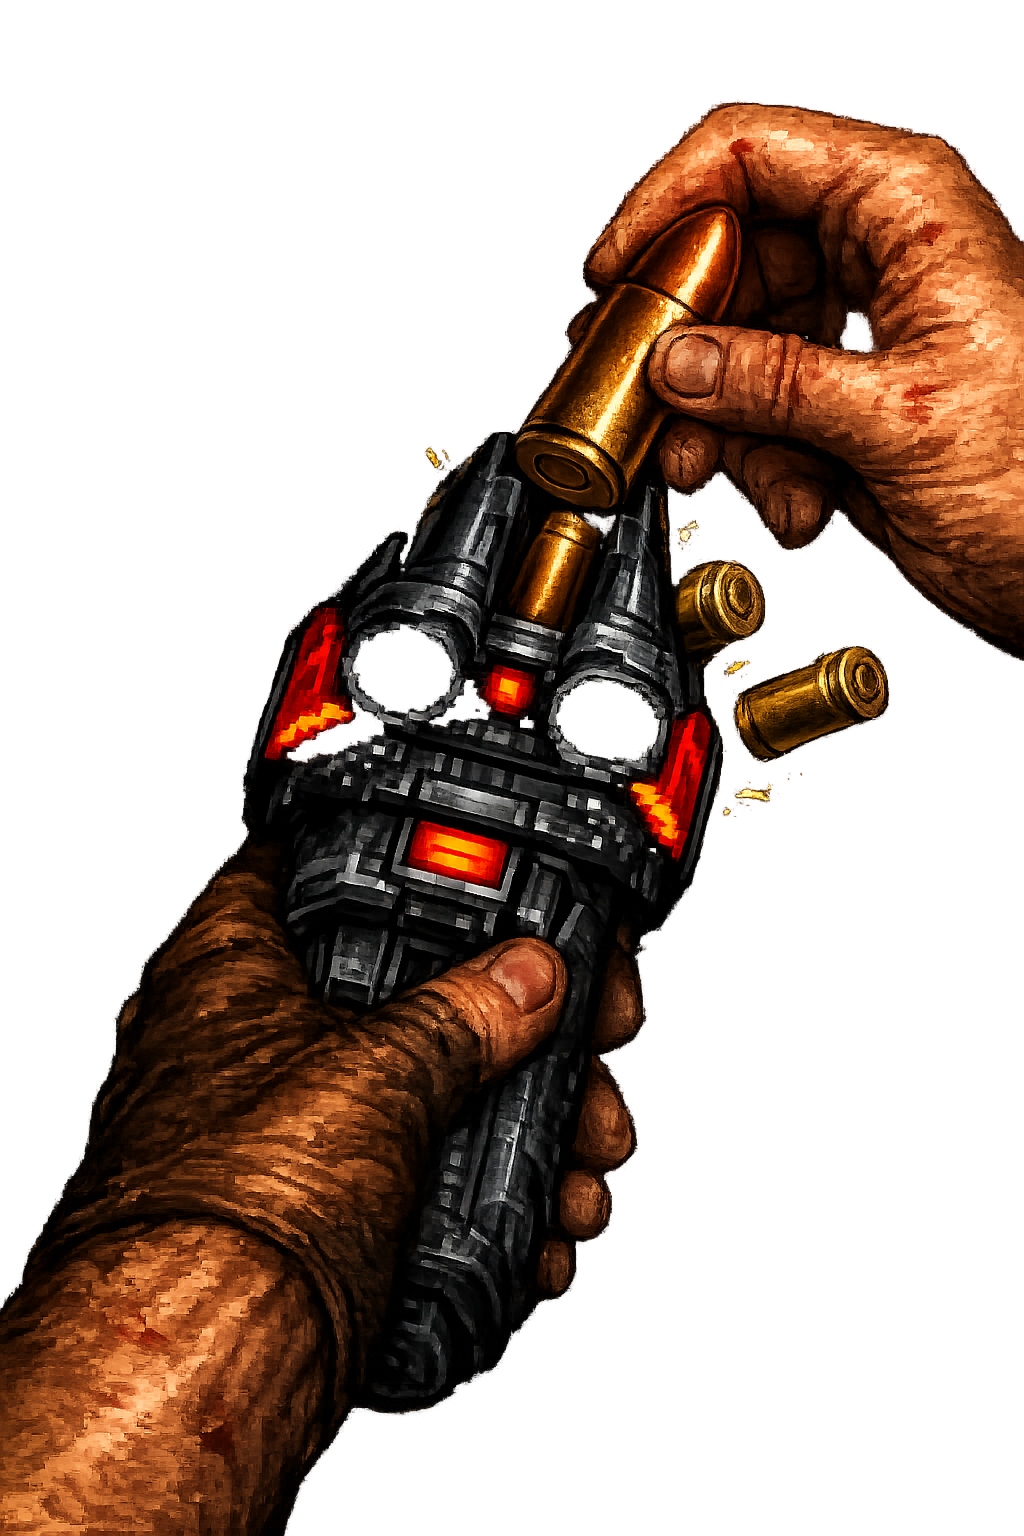
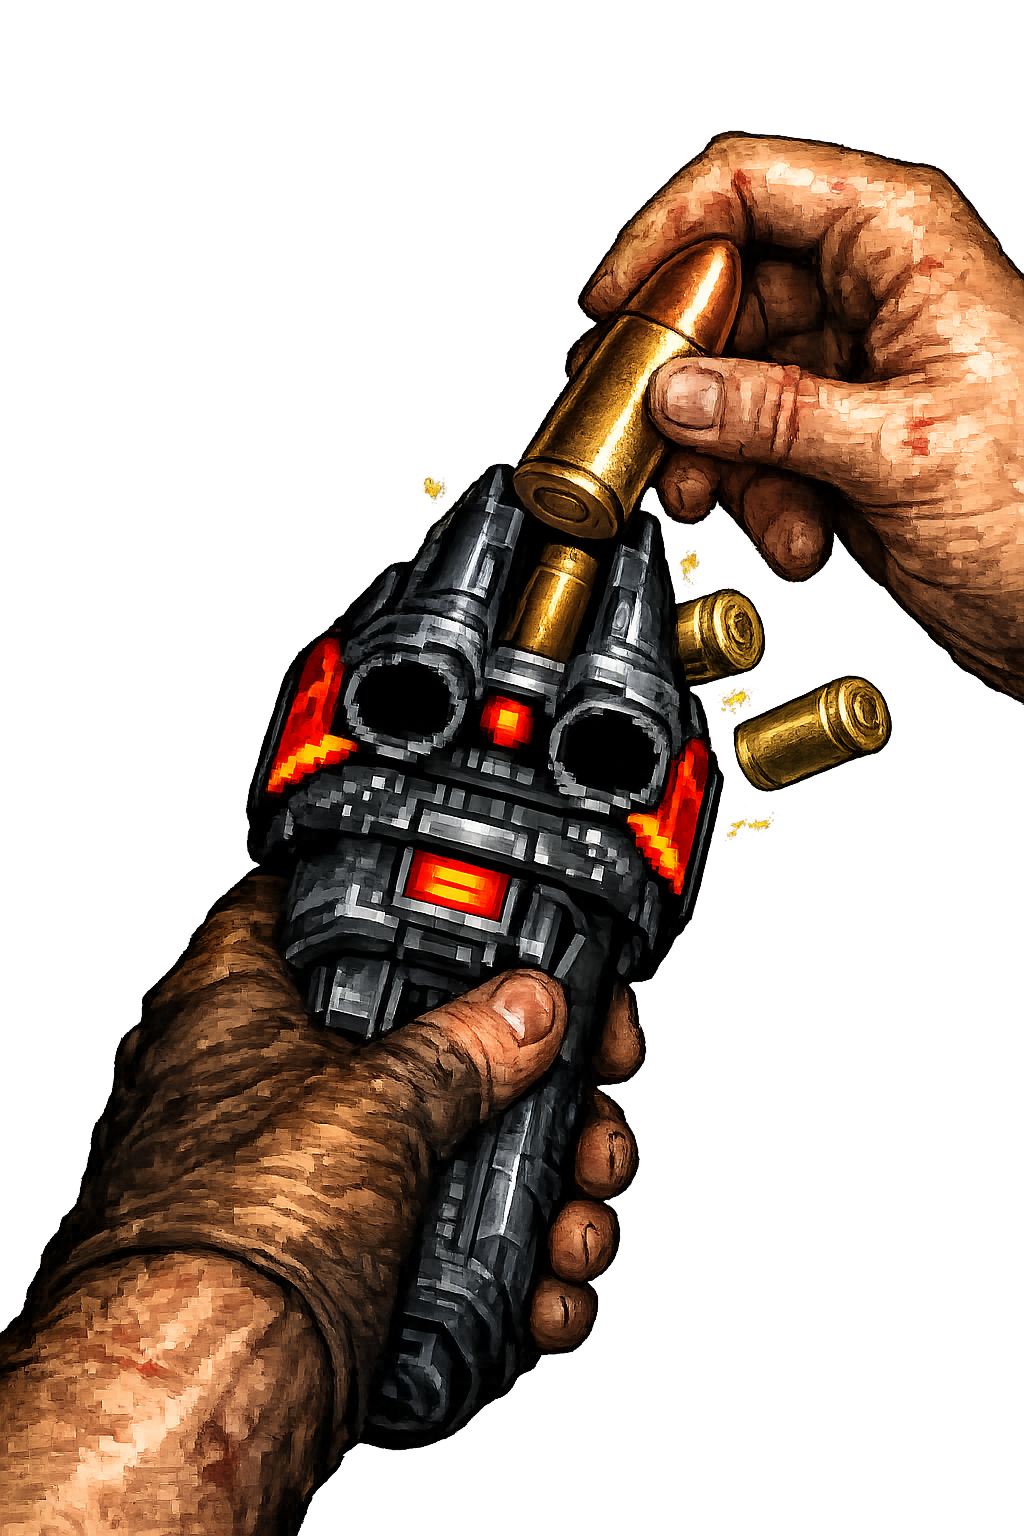
Ajustar HUD de balas y agregar score persistente en JSON

diff --git a/src/org/drgnst/game/gfx/Screen.java b/src/org/drgnst/game/gfx/Screen.java
@@ -46,15 +46,17 @@ public class Screen extends Bitmap
         // Kills + Deaths (compact, top-right)
         int hudScale = 1;
         int spacing = 2;
-        String ks = Integer.toString(Math.max(0, game.getKills()));
-        int kWidth = ks.length() * (3 * hudScale + 1);
         drawNumberRight(width - 6, 6, game.getKills(), 0xffffff, hudScale);
         drawNumberRight(width - 6, 14, game.getDeaths(), 0xff8888, hudScale);
 
-        // Barra de vida más discreta (bottom-left)
-        drawHealthBar(6, height - 12, 60, 6, game.getPlayerHealthPercent());
+        // Score y max score (top-left)
+        drawLabelAndNumber(6, 6, "SCORE", game.getScore(), 0xffd24d, 1);
+        drawLabelAndNumber(6, 14, "MAX", game.getMaxScore(), 0x7de3ff, 1);
 
-        // Munición: 5 balas en la parte inferior
+        // Barra de vida más discreta (lower-left, above bullets)
+        drawHealthBar(6, height - 34, 60, 6, game.getPlayerHealthPercent());
+
+        // Munición: 5 balas pequeñas en la esquina inferior izquierda
         drawAmmoHud(game.getAmmo(), game.getMaxAmmo());
 
         // Jumpscare a pantalla completa cuando muere
@@ -177,6 +179,90 @@ public class Screen extends Bitmap
         }
     }
 
+    private void drawLabelAndNumber(int x, int y, String label, int value, int color, int scale)
+    {
+        drawText(x, y, label, color, scale);
+        int labelWidth = label.length() * (3 * scale + 1);
+        drawNumber(x + labelWidth + 2, y, value, color, scale);
+    }
+
+    private void drawNumber(int x, int y, int value, int color, int scale)
+    {
+        String s = Integer.toString(Math.max(0, value));
+        int spacing = 1;
+        int dx = 0;
+        for (int i = 0; i < s.length(); i++)
+        {
+            char c = s.charAt(i);
+            if (c < '0' || c > '9')
+                continue;
+            int d = c - '0';
+            drawDigit(x + dx, y, d, color, scale);
+            dx += 3 * scale + spacing;
+        }
+    }
+
+    private void drawText(int x, int y, String text, int color, int scale)
+    {
+        int dx = 0;
+        for (int i = 0; i < text.length(); i++)
+        {
+            char c = Character.toUpperCase(text.charAt(i));
+            if (c == ' ')
+            {
+                dx += 2 * scale;
+                continue;
+            }
+
+            int[] pat = getLetterPattern(c);
+            if (pat == null)
+            {
+                dx += 4 * scale;
+                continue;
+            }
+
+            for (int ry = 0; ry < 5; ry++)
+            {
+                int row = pat[ry];
+                for (int rx = 0; rx < 3; rx++)
+                {
+                    boolean on = ((row >> (2 - rx)) & 1) == 1;
+                    if (!on)
+                        continue;
+                    for (int sy = 0; sy < scale; sy++)
+                    {
+                        for (int sx = 0; sx < scale; sx++)
+                        {
+                            int px = x + dx + rx * scale + sx;
+                            int py = y + ry * scale + sy;
+                            if (px < 0 || px >= width || py < 0 || py >= height)
+                                continue;
+                            pixels[px + py * width] = color & 0xffffff;
+                        }
+                    }
+                }
+            }
+
+            dx += 4 * scale;
+        }
+    }
+
+    private int[] getLetterPattern(char c)
+    {
+        switch (c)
+        {
+            case 'S': return new int[] {0b111,0b100,0b111,0b001,0b111};
+            case 'C': return new int[] {0b111,0b100,0b100,0b100,0b111};
+            case 'O': return new int[] {0b111,0b101,0b101,0b101,0b111};
+            case 'R': return new int[] {0b110,0b101,0b110,0b101,0b101};
+            case 'E': return new int[] {0b111,0b100,0b111,0b100,0b111};
+            case 'M': return new int[] {0b101,0b111,0b111,0b101,0b101};
+            case 'A': return new int[] {0b111,0b101,0b111,0b101,0b101};
+            case 'X': return new int[] {0b101,0b101,0b010,0b101,0b101};
+            default: return null;
+        }
+    }
+
     private void drawHealthBar(int x, int y, int w, int h, int percent)
     {
         // Fondo
@@ -254,12 +340,12 @@ public class Screen extends Bitmap
         if (bulletIcon == null || maxAmmo <= 0)
             return;
 
-        int iconW = 18;
-        int iconH = 27;
-        int spacing = 3;
+        int iconW = 10;
+        int iconH = 15;
+        int spacing = 2;
         int totalW = maxAmmo * iconW + (maxAmmo - 1) * spacing;
-        int startX = (width - totalW) / 2;
-        int y = height - iconH - 4;
+        int startX = 6;
+        int y = height - iconH - 6;
 
         for (int i = 0; i < maxAmmo; i++)
         {

diff --git a/src/org/drgnst/game/Game.java b/src/org/drgnst/game/Game.java
@@ -8,6 +8,13 @@ import java.util.Random;
 import java.awt.image.BufferedImage;
 import javax.imageio.ImageIO;
 import java.io.File;
+import java.io.IOException;
+import java.nio.charset.StandardCharsets;
+import java.nio.file.Files;
+import java.nio.file.Path;
+import java.nio.file.Paths;
+import java.util.regex.Matcher;
+import java.util.regex.Pattern;
 
 import org.drgnst.game.Level.Level;
 import org.drgnst.game.entities.Enemy;
@@ -26,6 +33,8 @@ public class Game
     private static final double SHOT_ANGLE_COS = 0.92;
     private static final int MAX_AMMO = 5;
     private static final int RELOAD_DURATION_FRAMES = 343; // ~5.72s, igual al audio
+    private static final int SCORE_PER_KILL = 100;
+    private static final Path SCORE_FILE = Paths.get("/home/alessandro/Java-3D-Rendering/res/score.json");
 
     public Level level;
     public Player player;
@@ -45,6 +54,8 @@ public class Game
     private int firingCooldown; // Cooldown entre disparos
     private int ammo;
     private int reloadTimer;
+    private int score;
+    private int maxScore;
 
     public Game()
     {
@@ -63,6 +74,8 @@ public class Game
         ammo = MAX_AMMO;
         reloadTimer = 0;
         weapon.setReloading(false);
+        score = 0;
+        maxScore = loadMaxScore();
         loadJumpscareImage();
 
         // Iniciar música de fondo
@@ -243,6 +256,7 @@ public class Game
             if (bestTarget.isDead())
             {
                 kills++;
+                addScore(SCORE_PER_KILL);
             }
         }
     }
@@ -304,6 +318,16 @@ public class Game
     public int getKills()
     {
         return kills;
+    }
+
+    public int getScore()
+    {
+        return score;
+    }
+
+    public int getMaxScore()
+    {
+        return maxScore;
     }
 
     public void recordDeath()
@@ -405,6 +429,64 @@ public class Game
      */
     public void cleanup()
     {
+        saveMaxScore();
         audioManager.stopMusic();
+    }
+
+    private void addScore(int points)
+    {
+        if (points <= 0)
+            return;
+
+        score += points;
+        if (score > maxScore)
+        {
+            maxScore = score;
+            saveMaxScore();
+        }
+    }
+
+    private int loadMaxScore()
+    {
+        try
+        {
+            if (!Files.exists(SCORE_FILE))
+            {
+                saveMaxScore(0);
+                return 0;
+            }
+
+            String content = new String(Files.readAllBytes(SCORE_FILE), StandardCharsets.UTF_8);
+            Matcher matcher = Pattern.compile("\"maxScore\"\\s*:\\s*(\\d+)").matcher(content);
+            if (matcher.find())
+                return Integer.parseInt(matcher.group(1));
+        }
+        catch (Exception e)
+        {
+            System.err.println("✗ Error cargando maxScore: " + e.getMessage());
+        }
+
+        return 0;
+    }
+
+    private void saveMaxScore()
+    {
+        saveMaxScore(maxScore);
+    }
+
+    private void saveMaxScore(int value)
+    {
+        try
+        {
+            if (SCORE_FILE.getParent() != null)
+                Files.createDirectories(SCORE_FILE.getParent());
+
+            String json = "{\n  \"maxScore\": " + Math.max(0, value) + "\n}\n";
+            Files.write(SCORE_FILE, json.getBytes(StandardCharsets.UTF_8));
+        }
+        catch (IOException e)
+        {
+            System.err.println("✗ Error guardando maxScore: " + e.getMessage());
+        }
     }
 }